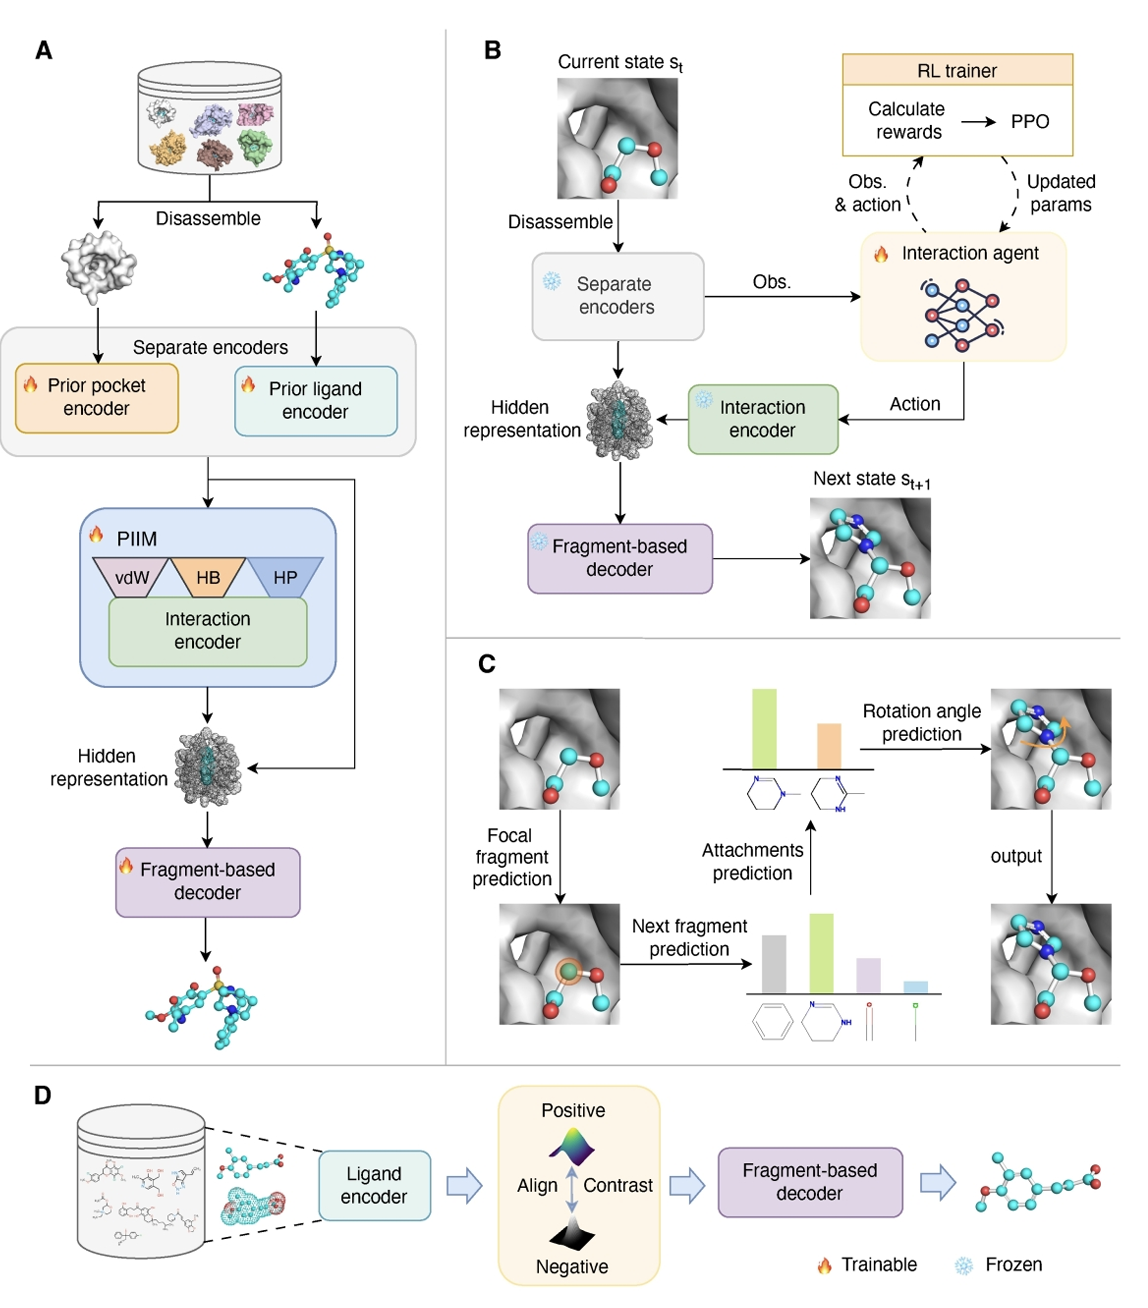
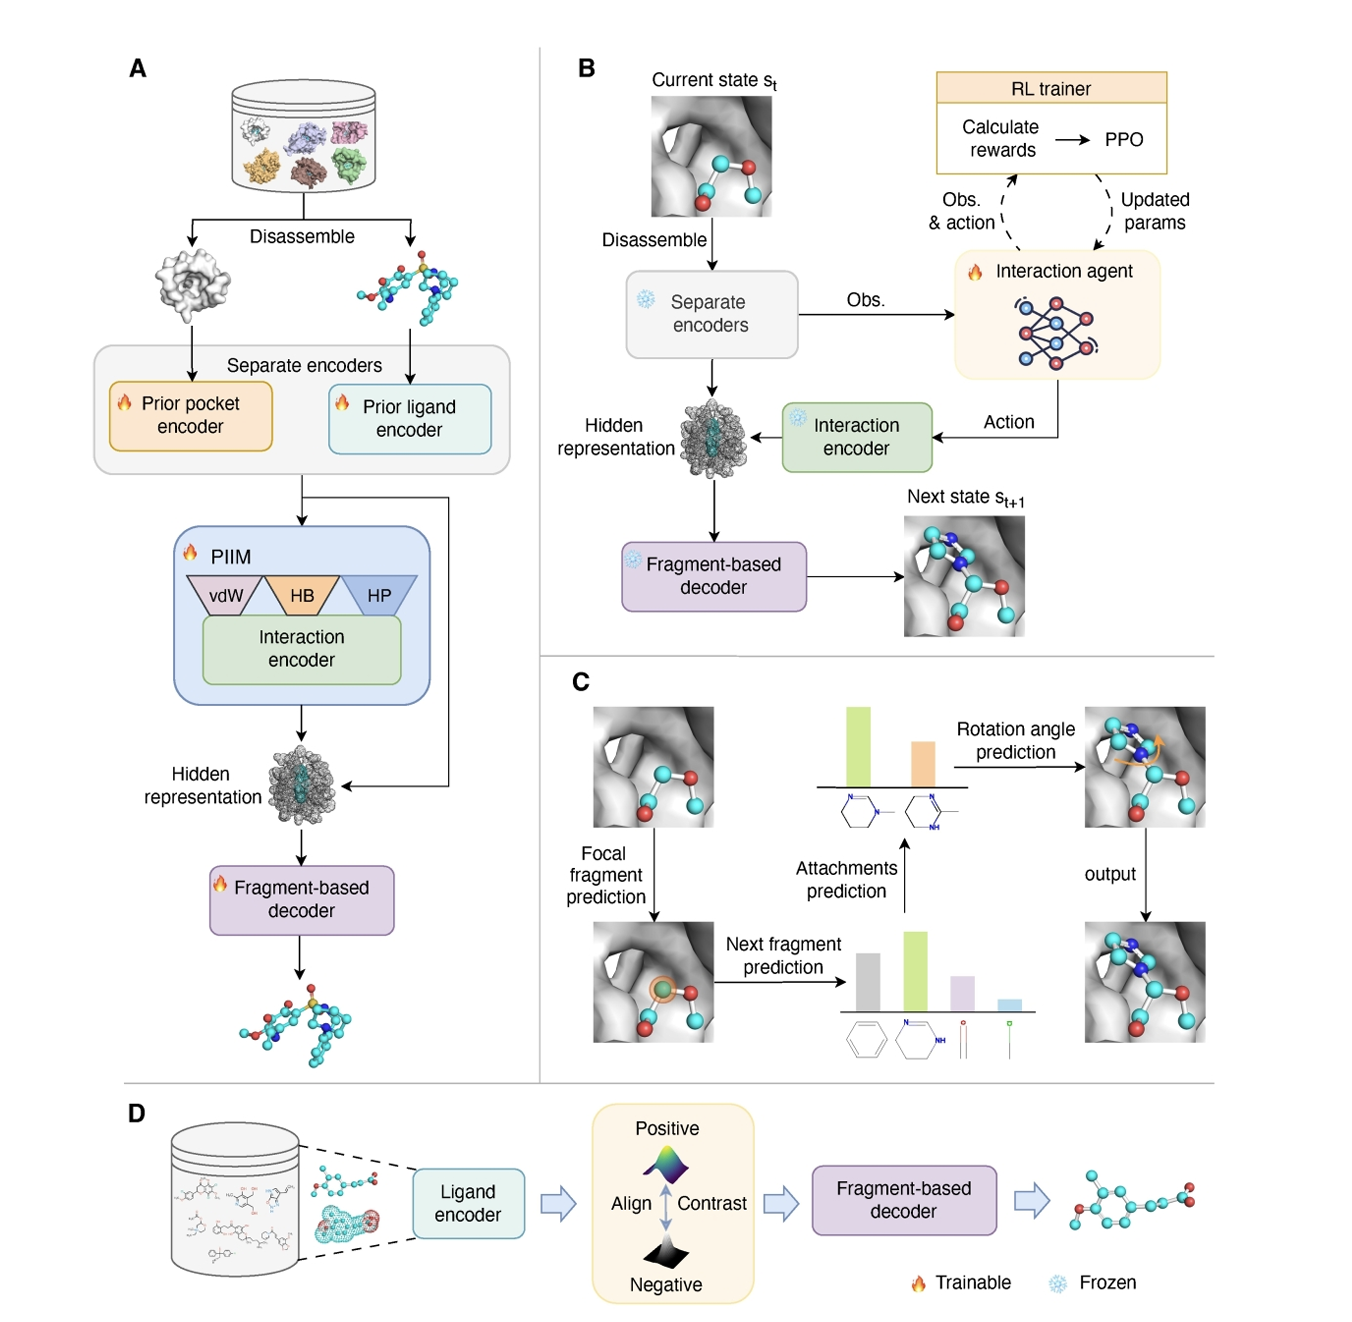
init

diff --git a/README.md b/README.md
@@ -2,7 +2,7 @@
 :boom: The official repository of our paper "Deep reinforcement learning as an interaction agent to steer fragment-based 3D molecular generation for protein pockets". 
 
 <p align="center">
-  <img src="assets/overview.png" /> 
+  <img width="400" src="assets/overview.png" /> 
 </p>
 
 ## Prerequisites
